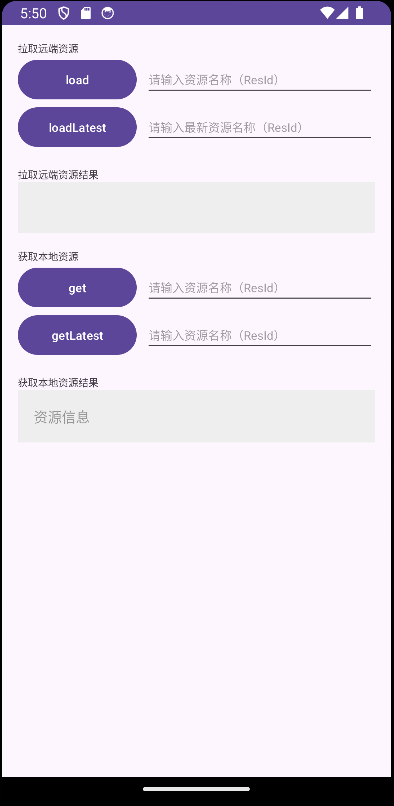
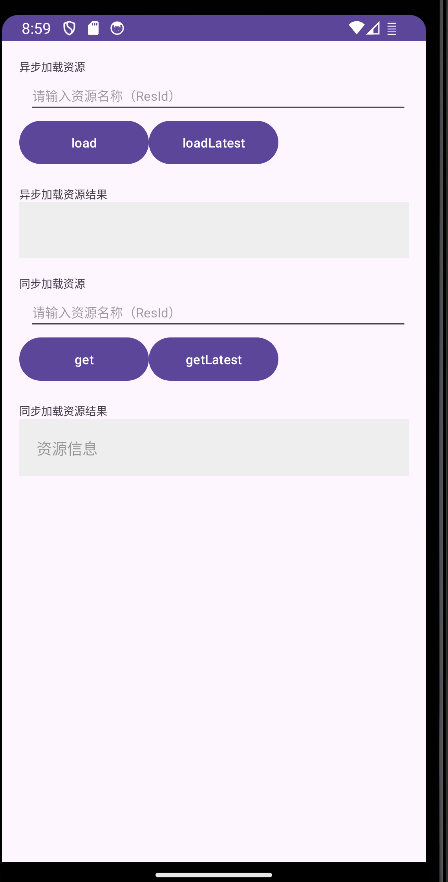
21:20提交

Changed region(s): [[0.0, 0.0, 1.0, 1.0], [0.0305, 0.3102, 0.9137, 0.5273], [0.6701, 0.1551, 0.7614, 0.1861]]

diff --git a/shiplyResDemo/src/main/java/com/example/shiplyresdemo/MainActivity.kt b/shiplyResDemo/src/main/java/com/example/shiplyresdemo/MainActivity.kt
@@ -34,8 +34,6 @@ class MainActivity : AppCompatActivity() {
 
         val etRemoteResName: EditText = findViewById(R.id.et_remote_res_name)
         val etGetResName: EditText = findViewById(R.id.et_get_res_name)
-        val etRemoteResLatestName: EditText = findViewById(R.id.et_remote_reslatest_name)
-        val etGetResLatestName: EditText = findViewById(R.id.et_get_resLatest_name)
         tvRemoteResult = findViewById(R.id.tv_remote_result)
         tvLocalResult = findViewById(R.id.tv_local_result)
         // 设置按钮点击事件
@@ -49,12 +47,12 @@ class MainActivity : AppCompatActivity() {
             getResource(resId)
         }
         loadLatestButton.setOnClickListener {
-            val resId = etRemoteResLatestName.text.toString()
+            val resId = etRemoteResName.text.toString()
             loadLatestResource(resId)
         }
 
         getLatestButton.setOnClickListener {
-            val resId = etGetResLatestName.text.toString()
+            val resId = etGetResName.text.toString()
             getLatestResource(resId)
         }
     }
@@ -67,12 +65,14 @@ class MainActivity : AppCompatActivity() {
             override fun onComplete(isSuccess: Boolean, result: IRes?, error: IResLoadError) {
                 if (isSuccess) {
                     Log.d("ResHubLoad", "资源拉取成功")
-                    showCustomToast("远端最新资源拉取成功")
-                    tvRemoteResult.text = "远端最新资源拉取成功"
+                    showCustomToast("异步最新资源拉取成功")
+                    if (result != null){
+                        tvRemoteResult.text = "异步最新资源拉取成功，文件路径：${result.getLocalPath()}"
+                    }
                 } else {
-                    Log.e("ResHubLoad", "资源拉取失败")
-                    showCustomToast("远端最新资源拉取失败")
-                    tvRemoteResult.text = "远端最新资源拉取失败"
+                    Log.e("ResHubLoad", "异步最新资源拉取失败")
+                    showCustomToast("异步最新资源拉取失败")
+                    tvRemoteResult.text = "异步最新资源拉取失败"
                 }
             }
         })
@@ -86,13 +86,15 @@ class MainActivity : AppCompatActivity() {
 
             override fun onComplete(isSuccess: Boolean, result: IRes?, error: IResLoadError) {
                 if (isSuccess) {
-                    Log.d("ResHubLoad", "资源拉取成功")
-                    showCustomToast("远端资源拉取成功")
-                    tvRemoteResult.text = "远端资源拉取成功"
+                    Log.d("ResHubLoad", "异步资源拉取成功")
+                    showCustomToast("异步资源拉取成功")
+                    if (result != null){
+                        tvRemoteResult.text = "异步资源拉取成功，文件路径：${result.getLocalPath()}"
+                    }
                 } else {
-                    Log.e("ResHubLoad", "资源拉取失败")
-                    showCustomToast("远端资源拉取失败")
-                    tvRemoteResult.text = "远端资源拉取失败"
+                    Log.e("ResHubLoad", "异步资源拉取失败")
+                    showCustomToast("异步资源拉取失败")
+                    tvRemoteResult.text = "异步资源拉取失败"
                 }
             }
         })
@@ -101,26 +103,26 @@ class MainActivity : AppCompatActivity() {
     private fun getResource(resId: String) {
         val res = reshub.get(resId)
         if (res != null) {
-            Log.d("ResHubGet", "成功获取本地资源: $res")
-            showCustomToast("本地资源获取成功")
+            Log.d("ResHubGet", "同步资源获取成功: $res")
+            showCustomToast("同步资源获取成功")
             updateResourceContent(res)
         } else {
-            Log.e("ResHubGet", "获取本地资源失败")
-            showCustomToast("本地资源获取失败")
-            tvLocalResult.text = "本地资源获取失败"
+            Log.e("ResHubGet", "同步资源获取失败")
+            showCustomToast("同步资源获取失败")
+            tvLocalResult.text = "同步资源获取失败"
         }
     }
 
     private fun getLatestResource(resId: String) {
         val res = reshub.getLatest(resId)
         if (res != null) {
-            Log.d("ResHubGet", "成功获取本地最新资源: $res")
-            showCustomToast("本地最新资源获取成功")
+            Log.d("ResHubGet", "成功获取同步最新资源: $res")
+            showCustomToast("同步最新资源获取成功")
             updateResourceContent(res)
         } else {
-            Log.e("ResHubGet", "获取本地最新资源失败")
-            showCustomToast("本地最新资源获取失败")
-            tvLocalResult.text = "本地最新资源获取失败"
+            Log.e("ResHubGet", "获取同步最新资源失败")
+            showCustomToast("同步最新资源获取失败")
+            tvLocalResult.text = "同步最新资源获取失败"
         }
     }
 

diff --git a/README.md b/README.md
@@ -50,12 +50,12 @@ SDK初始化代码位于app/src/main/java/com/example/shiplyconfigdemo/MyApplica
 Demo主要包括远端资源拉取和本地配置查询两块：
 
 ### 远端资源拉取
-- 在「load」按钮后输入想要拉取的资源名称，点击「load」按钮，开始拉取资源，结果在下方文本框中显示。
-- 在「loadLatest」按钮后输入想要拉取的资源名称，点击「loadLatest」按钮，开始拉取最新资源，结果在下方文本框中显示。
+- 在文本框输入想要拉取的资源名称，点击「load」按钮，开始拉取资源，结果在下方文本框中显示。
+- 在文本框输入想要拉取的资源名称，点击「loadLatest」按钮，开始拉取最新资源，结果在下方文本框中显示。
 
 ### 本地资源获取
-- 在「get」按钮后输入想要获取的资源名称，点击「get」即可获取资源相关信息，相关信息会显示在下面的文本框中。
-- 在「getLatest」按钮后输入想要获取的资源名称，点击「getLatest」即可获取最新资源相关信息，相关信息会显示在下面的文本框中。
+- 在文本框输入想要获取的资源名称，点击「get」即可获取资源相关信息，相关信息会显示在下面的文本框中。
+- 在文本框输入想要获取的资源名称，点击「getLatest」即可获取最新资源相关信息，相关信息会显示在下面的文本框中。
 
 SDK初始化代码位于shiplyResDemo/src/main/java/com.example.shiplyresdemo/MyApplication.kt中，Shiply用户可以根据自己的设备、需求修改配置，在shiplyResDemo/src/main/java/com.example.shiplyresdemo/MainActivity.kt文件的onCreate方法中，Shiply用户可以将对应的appId和appKey替换为自己的值，然后进行测试验证。
 
